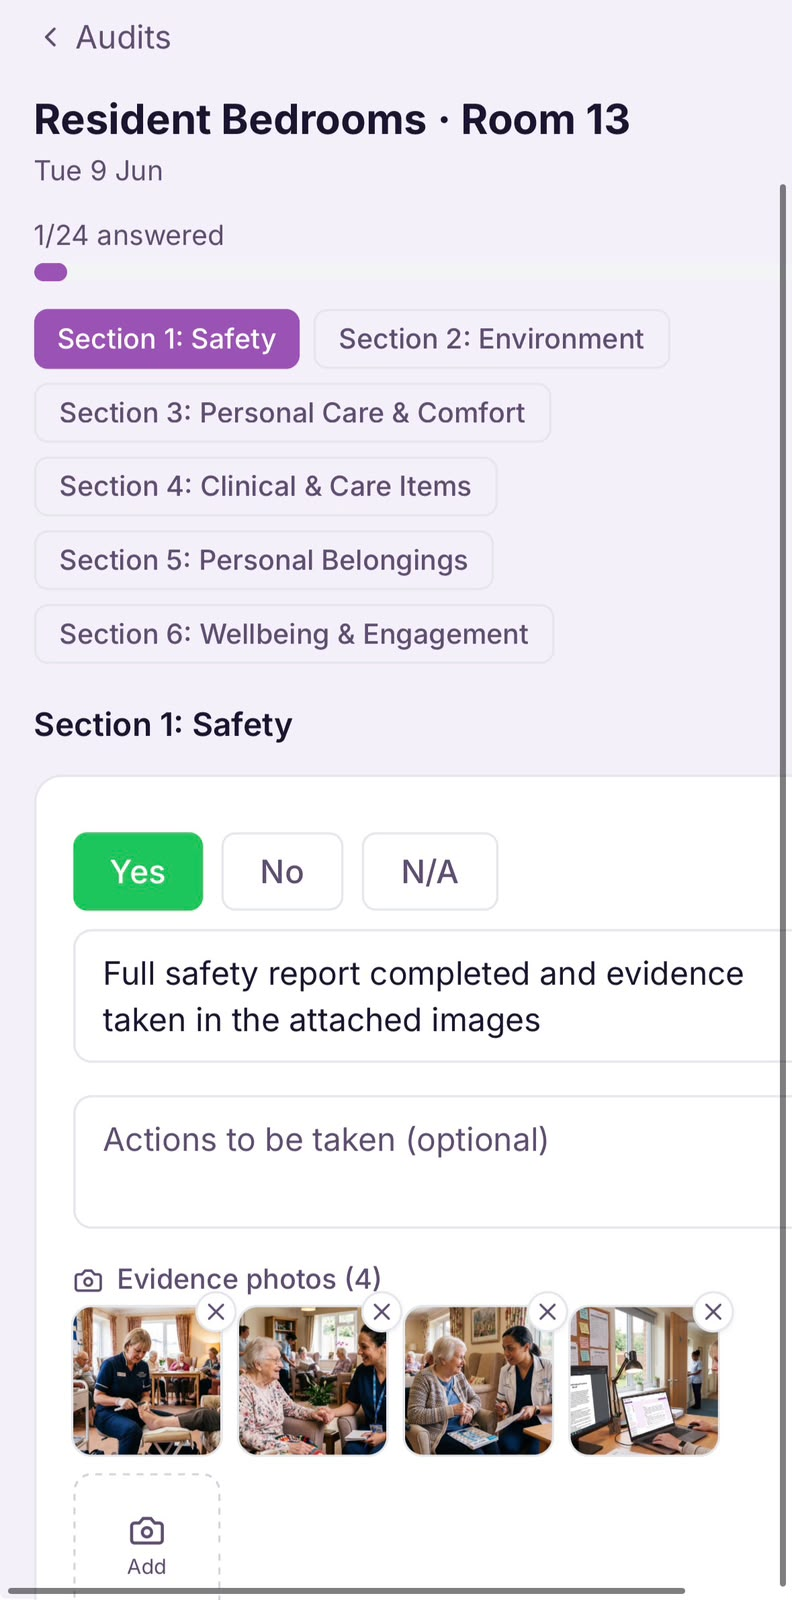
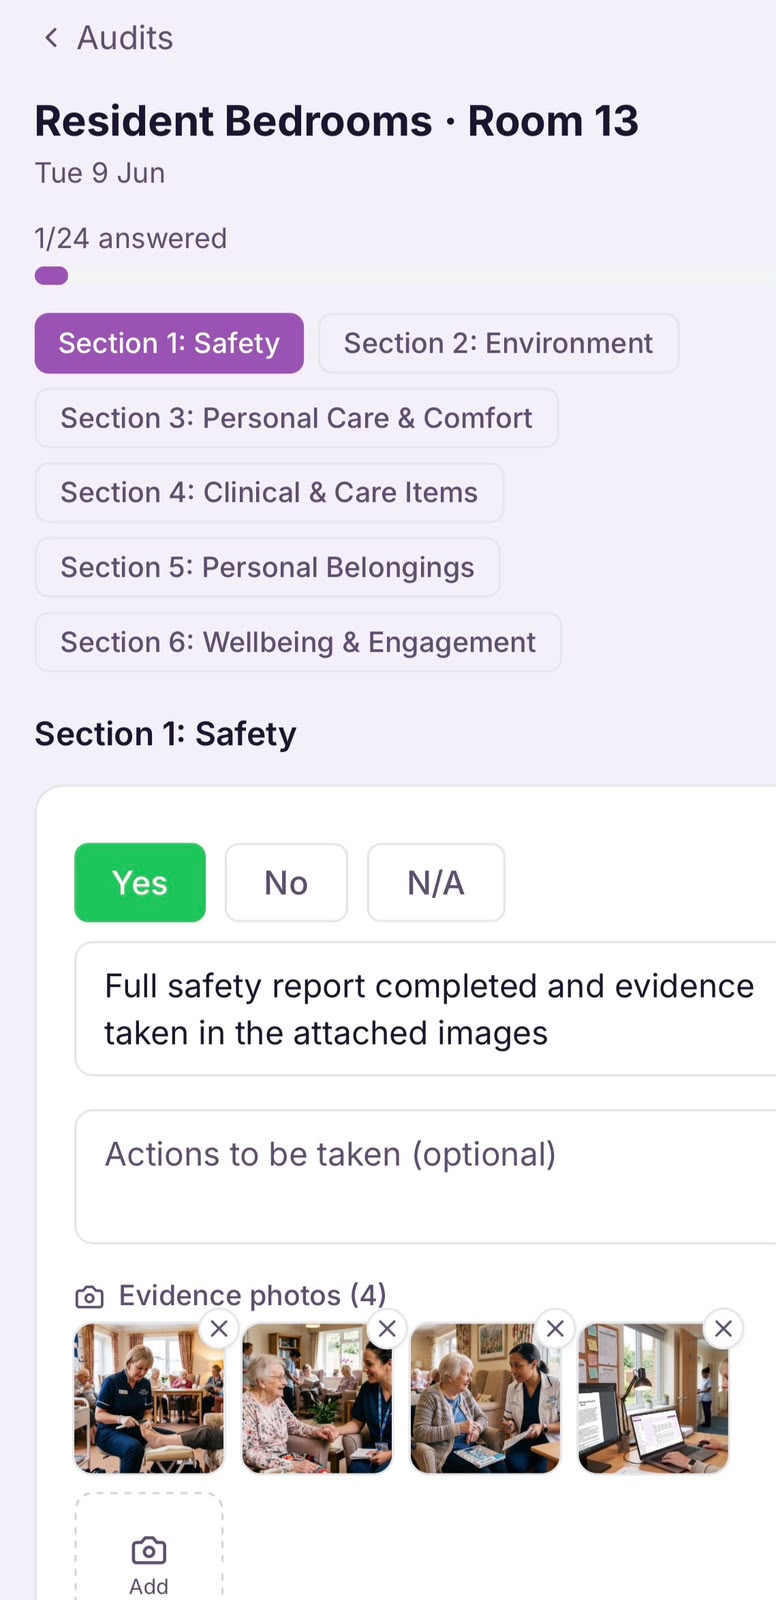
care-audits: swap the mobile evidence screenshot (fuller phone view)

diff --git a/apps/web/src/app/(marketing)/care-audits/page.tsx b/apps/web/src/app/(marketing)/care-audits/page.tsx
@@ -374,7 +374,7 @@ export default async function CareAuditsPage() {
                 <SiteImage
                   src="/features/audit-evidence/hub-mobile.jpg"
                   alt={FEATURE_IMAGE_ALT['/features/audit-evidence/hub-mobile.jpg']}
-                  width={792} height={1600}
+                  width={776} height={1600}
                   sizes="(max-width: 1024px) 90vw, 30vw"
                   className="h-auto w-full max-w-[300px] rounded-xl ring-1 ring-gray-200"
                 />
